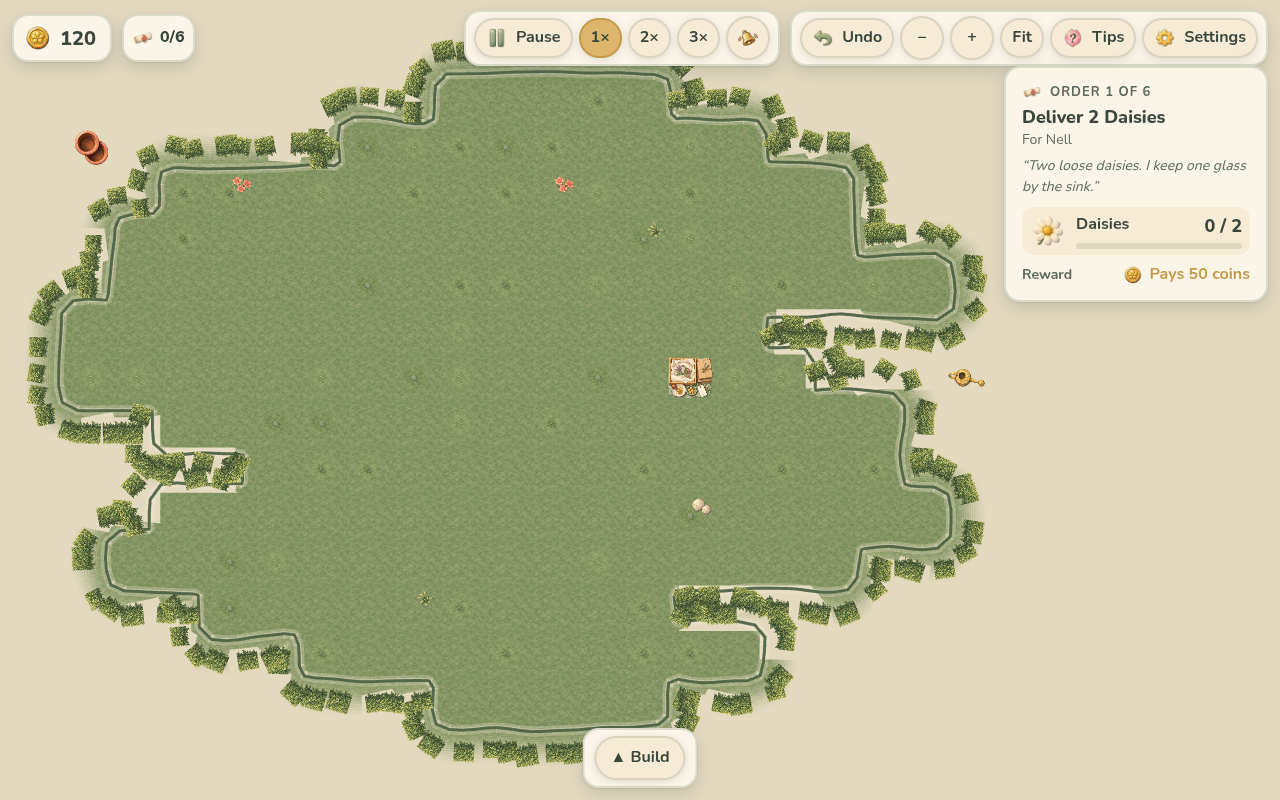
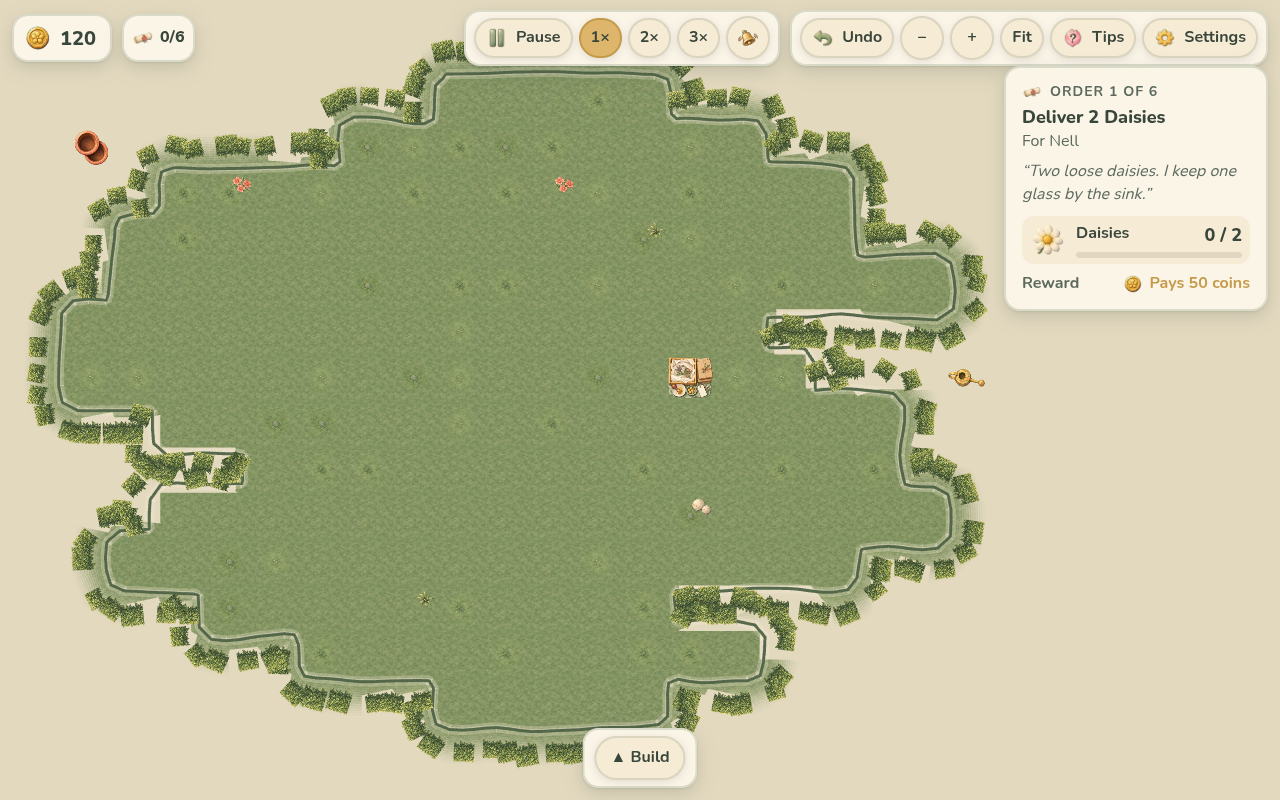
Type: player text follows ACCESSIBILITY §5 (16 px body, 14 px floor)
Order panel lines, inspector body and labels, tip card, settings help, palette names
and costs, chips and badges move up to 16 px (or the 14 px floor for small caps).
Palette tiles widen slightly to fit. Found by tools/a11ycheck.mjs.

Changed region(s): [[0.7812, 0.1562, 1.0, 0.4062], [0.8125, 0.0938, 0.9062, 0.125]]

diff --git a/src/ui/styles.css b/src/ui/styles.css
@@ -103,7 +103,7 @@ button:focus-visible, [tabindex]:focus-visible, input:focus-visible, a:focus-vis
 .coins { display: flex; align-items: center; gap: 8px; font-weight: 800; font-size: 20px; padding: 6px 14px 6px 10px; min-height: 48px; }
 .paused-chip { font-weight: 800; color: var(--coral-deep); }
 .coins img { width: 28px; height: 28px; }
-.coins .delta { font-size: 13px; color: var(--moss); font-weight: 700; }
+.coins .delta { font-size: 14px; color: var(--moss); font-weight: 700; }
 .brand { font-weight: 800; font-size: 18px; letter-spacing: 0.3px; color: var(--moss-deep); padding: 0 6px; }
 
 /* ---- order panel ---- */
@@ -111,11 +111,11 @@ button:focus-visible, [tabindex]:focus-visible, input:focus-visible, a:focus-vis
   position: absolute; top: 66px; right: 12px; width: 264px;
   padding: 14px 16px;
 }
-.orderpanel h2 { margin: 0 0 2px; font-size: 13px; text-transform: uppercase; letter-spacing: 1px; color: var(--ink-soft); display: flex; align-items: center; gap: 8px; }
+.orderpanel h2 { margin: 0 0 2px; font-size: 14px; text-transform: uppercase; letter-spacing: 1px; color: var(--ink-soft); display: flex; align-items: center; gap: 8px; }
 .orderpanel h2 img { width: 20px; height: 20px; }
 .orderpanel .title { font-weight: 800; font-size: 18px; margin: 0; }
-.orderpanel .customer { color: var(--ink-soft); font-size: 14px; margin: 0 0 6px; }
-.orderpanel .note { font-style: italic; color: var(--ink-soft); font-size: 14px; margin: 0 0 10px; }
+.orderpanel .customer { color: var(--ink-soft); font-size: 16px; margin: 0 0 6px; }
+.orderpanel .note { font-style: italic; color: var(--ink-soft); font-size: 16px; margin: 0 0 10px; }
 .req { display: flex; align-items: center; gap: 10px; padding: 6px 8px; border-radius: 12px; background: var(--cream); margin-bottom: 6px; }
 .req img { width: 36px; height: 36px; }
 .req .name { flex: 1; font-weight: 700; }
@@ -126,9 +126,9 @@ button:focus-visible, [tabindex]:focus-visible, input:focus-visible, a:focus-vis
 .reward { display: flex; justify-content: space-between; align-items: center; margin-top: 8px; font-weight: 700; }
 .reward .coin { display: inline-flex; align-items: center; gap: 6px; color: var(--honey-deep); }
 .reward .coin img { width: 20px; height: 20px; }
-.orderpanel .progress-label { font-size: 14px; color: var(--ink-soft); }
-.orderpanel .hint { margin-top: 8px; font-size: 14px; color: var(--moss-deep); background: #eef2e6; border-radius: 10px; padding: 8px 10px; }
-.sandbox-note { font-size: 14px; color: var(--ink-soft); margin: 6px 0 0; }
+.orderpanel .progress-label { font-size: 16px; color: var(--ink-soft); }
+.orderpanel .hint { margin-top: 8px; font-size: 16px; color: var(--moss-deep); background: #eef2e6; border-radius: 10px; padding: 8px 10px; }
+.sandbox-note { font-size: 16px; color: var(--ink-soft); margin: 6px 0 0; }
 
 /* ---- palette ---- */
 .palette {
@@ -141,7 +141,7 @@ button:focus-visible, [tabindex]:focus-visible, input:focus-visible, a:focus-vis
 .palette .tools { display: flex; gap: 5px; align-items: stretch; flex-wrap: nowrap; justify-content: center; overflow-x: auto; }
 .ptool {
   display: flex; flex-direction: column; align-items: center; gap: 2px;
-  width: 96px; min-height: 96px; padding: 7px 4px 5px; flex: 0 0 auto;
+  width: 104px; min-height: 96px; padding: 7px 4px 5px; flex: 0 0 auto;
   border-radius: 14px;
   border: 2px solid transparent;
   background: var(--cream);
@@ -152,16 +152,16 @@ button:focus-visible, [tabindex]:focus-visible, input:focus-visible, a:focus-vis
 .ptool.active { border-color: var(--honey-deep); background: #fbe9bd; }
 .ptool:disabled { opacity: 0.5; cursor: not-allowed; }
 .ptool img { width: 40px; height: 40px; object-fit: contain; }
-.ptool .pname { font-size: 14px; font-weight: 700; line-height: 1.1; text-align: center; }
-.ptool .pcost { font-size: 14px; font-weight: 800; color: var(--honey-deep); display: inline-flex; align-items: center; gap: 3px; }
+.ptool .pname { font-size: 16px; font-weight: 700; line-height: 1.1; text-align: center; }
+.ptool .pcost { font-size: 16px; font-weight: 800; color: var(--honey-deep); display: inline-flex; align-items: center; gap: 3px; }
 .ptool .pcost img { width: 14px; height: 14px; }
 .ptool.unaffordable .pcost { color: var(--coral-deep); }
-.ptool .key { position: absolute; top: 4px; left: 6px; font-size: 10px; font-weight: 800; color: var(--ink-soft); opacity: 0.7; }
+.ptool .key { position: absolute; top: 4px; left: 6px; font-size: 14px; font-weight: 800; color: var(--ink-soft); opacity: 0.7; }
 .palette .divider { width: 2px; background: rgba(57, 70, 59, 0.1); margin: 4px 2px; border-radius: 2px; }
 .palette .collapse { align-self: center; }
 .palette .basket { display: flex; flex-direction: column; gap: 4px; align-items: center; padding: 6px; }
 .basket-items { display: flex; gap: 4px; }
-.bitem { display: inline-flex; align-items: center; gap: 4px; padding: 4px 8px 4px 4px; border-radius: 999px; background: var(--cream); border: 2px solid transparent; font-weight: 800; font-size: 13px; }
+.bitem { display: inline-flex; align-items: center; gap: 4px; padding: 4px 8px 4px 4px; border-radius: 999px; background: var(--cream); border: 2px solid transparent; font-weight: 800; font-size: 14px; }
 .bitem img { width: 22px; height: 22px; }
 .bitem.active { border-color: var(--honey-deep); background: #fbe9bd; }
 
@@ -170,7 +170,7 @@ button:focus-visible, [tabindex]:focus-visible, input:focus-visible, a:focus-vis
   position: absolute; pointer-events: none;
   padding: 6px 10px; border-radius: 10px;
   background: rgba(57, 70, 59, 0.92); color: var(--cream);
-  font-size: 13px; font-weight: 700; white-space: nowrap;
+  font-size: 14px; font-weight: 700; white-space: nowrap;
   transform: translate(16px, 18px);
   box-shadow: var(--shadow-soft);
 }
@@ -184,9 +184,9 @@ button:focus-visible, [tabindex]:focus-visible, input:focus-visible, a:focus-vis
 }
 .inspector h3 { margin: 0; font-size: 17px; font-weight: 800; display: flex; align-items: center; gap: 10px; }
 .inspector h3 img { width: 34px; height: 34px; }
-.inspector .blurb { font-size: 14px; color: var(--ink-soft); margin: 4px 0 8px; }
-.inspector .muted { font-size: 14px; color: var(--ink-soft); }
-.inspector .state { display: inline-flex; align-items: center; gap: 6px; padding: 3px 10px; border-radius: 999px; font-weight: 800; font-size: 12px; text-transform: uppercase; letter-spacing: 0.5px; }
+.inspector .blurb { font-size: 16px; color: var(--ink-soft); margin: 4px 0 8px; }
+.inspector .muted { font-size: 16px; color: var(--ink-soft); }
+.inspector .state { display: inline-flex; align-items: center; gap: 6px; padding: 3px 10px; border-radius: 999px; font-weight: 800; font-size: 14px; text-transform: uppercase; letter-spacing: 0.5px; }
 .state.growing, .state.working { background: #e4ecd9; color: var(--moss-deep); }
 .state.ready { background: #fbe9bd; color: var(--honey-deep); }
 .state.blocked { background: #f6d5cf; color: var(--coral-deep); }
@@ -194,12 +194,12 @@ button:focus-visible, [tabindex]:focus-visible, input:focus-visible, a:focus-vis
 .state.idle { background: var(--cream-deep); color: var(--ink-soft); }
 .inspector .bar { height: 8px; border-radius: 4px; background: rgba(57, 70, 59, 0.12); overflow: hidden; margin: 6px 0 8px; }
 .inspector .bar > span { display: block; height: 100%; background: var(--sage-deep); }
-.inspector .row { display: flex; align-items: center; gap: 8px; font-size: 15px; margin: 4px 0; flex-wrap: wrap; }
+.inspector .row { display: flex; align-items: center; gap: 8px; font-size: 16px; margin: 4px 0; flex-wrap: wrap; }
 .inspector .row img { width: 24px; height: 24px; }
-.inspector .label { color: var(--ink-soft); font-size: 12px; text-transform: uppercase; letter-spacing: 0.6px; margin-top: 6px; }
+.inspector .label { color: var(--ink-soft); font-size: 14px; text-transform: uppercase; letter-spacing: 0.6px; margin-top: 6px; }
 .inspector .actions { display: flex; gap: 6px; margin-top: 10px; flex-wrap: wrap; }
-.inspector .why { font-size: 14px; color: var(--coral-deep); font-weight: 700; margin-top: 4px; }
-.chip { display: inline-flex; align-items: center; gap: 4px; padding: 2px 8px 2px 4px; border-radius: 999px; background: var(--cream); font-weight: 700; font-size: 13px; }
+.inspector .why { font-size: 16px; color: var(--coral-deep); font-weight: 700; margin-top: 4px; }
+.chip { display: inline-flex; align-items: center; gap: 4px; padding: 2px 8px 2px 4px; border-radius: 999px; background: var(--cream); font-weight: 700; font-size: 14px; }
 .chip img { width: 20px; height: 20px; }
 
 /* ---- notices ---- */
@@ -212,9 +212,9 @@ button:focus-visible, [tabindex]:focus-visible, input:focus-visible, a:focus-vis
 /* ---- tutorial ---- */
 .tutorial { position: absolute; left: 12px; top: 66px; width: 264px; padding: 14px 16px; }
 .tutorial h4 { margin: 0 0 4px; font-size: 14px; text-transform: uppercase; letter-spacing: 1px; color: var(--moss-deep); display: flex; justify-content: space-between; }
-.tutorial p { margin: 0 0 10px; font-size: 15px; }
+.tutorial p { margin: 0 0 10px; font-size: 16px; }
 .tutorial .actions { display: flex; gap: 6px; justify-content: flex-end; }
-.tutorial kbd { font-family: inherit; background: var(--cream); border: 1px solid rgba(57,70,59,0.2); border-bottom-width: 2px; border-radius: 6px; padding: 0 6px; font-weight: 800; font-size: 12px; }
+.tutorial kbd { font-family: inherit; background: var(--cream); border: 1px solid rgba(57,70,59,0.2); border-bottom-width: 2px; border-radius: 6px; padding: 0 6px; font-weight: 800; font-size: 14px; }
 
 /* ---- overlays ---- */
 .overlay { position: absolute; inset: 0; display: grid; place-items: center; background: rgba(57, 70, 59, 0.35); backdrop-filter: blur(2px); }
@@ -224,16 +224,16 @@ button:focus-visible, [tabindex]:focus-visible, input:focus-visible, a:focus-vis
 .modal .actions { display: flex; gap: 8px; justify-content: flex-end; flex-wrap: wrap; margin-top: 14px; }
 .setting { display: flex; align-items: center; justify-content: space-between; padding: 10px 0; border-bottom: 1px solid rgba(57, 70, 59, 0.1); gap: 12px; }
 .setting:last-of-type { border-bottom: none; }
-.setting .desc { font-size: 14px; color: var(--ink-soft); }
+.setting .desc { font-size: 16px; color: var(--ink-soft); }
 .toggle { display: inline-flex; border-radius: 999px; background: var(--cream-deep); padding: 3px; gap: 2px; }
 .toggle button { border: none; background: transparent; padding: 5px 12px; border-radius: 999px; font-weight: 700; color: var(--ink-soft); }
 .toggle button.on { background: var(--paper); color: var(--ink); box-shadow: var(--shadow-soft); }
-.controls-list { columns: 2; font-size: 14px; margin: 8px 0 0; padding-left: 0; list-style: none; }
+.controls-list { columns: 2; font-size: 16px; margin: 8px 0 0; padding-left: 0; list-style: none; }
 .controls-list li { margin: 3px 0; break-inside: avoid; }
 .stats { display: flex; gap: 10px; margin: 10px 0; }
 .stat { flex: 1; background: var(--cream); border-radius: 12px; padding: 10px; text-align: center; }
 .stat b { display: block; font-size: 22px; }
-.stat span { font-size: 14px; color: var(--ink-soft); }
+.stat span { font-size: 16px; color: var(--ink-soft); }
 
 /* ---- title ---- */
 .titlescreen {
@@ -285,7 +285,7 @@ button:focus-visible, [tabindex]:focus-visible, input:focus-visible, a:focus-vis
 @media (max-width: 1150px) {
   .orderpanel, .tutorial, .inspector { width: 232px; }
   .orderpanel .note { display: none; }
-  .ptool { width: 84px; }
+  .ptool { width: 92px; }
 }
 @media (max-width: 1050px) {
   .orderpanel, .tutorial, .inspector { width: 212px; padding: 10px 12px; }
